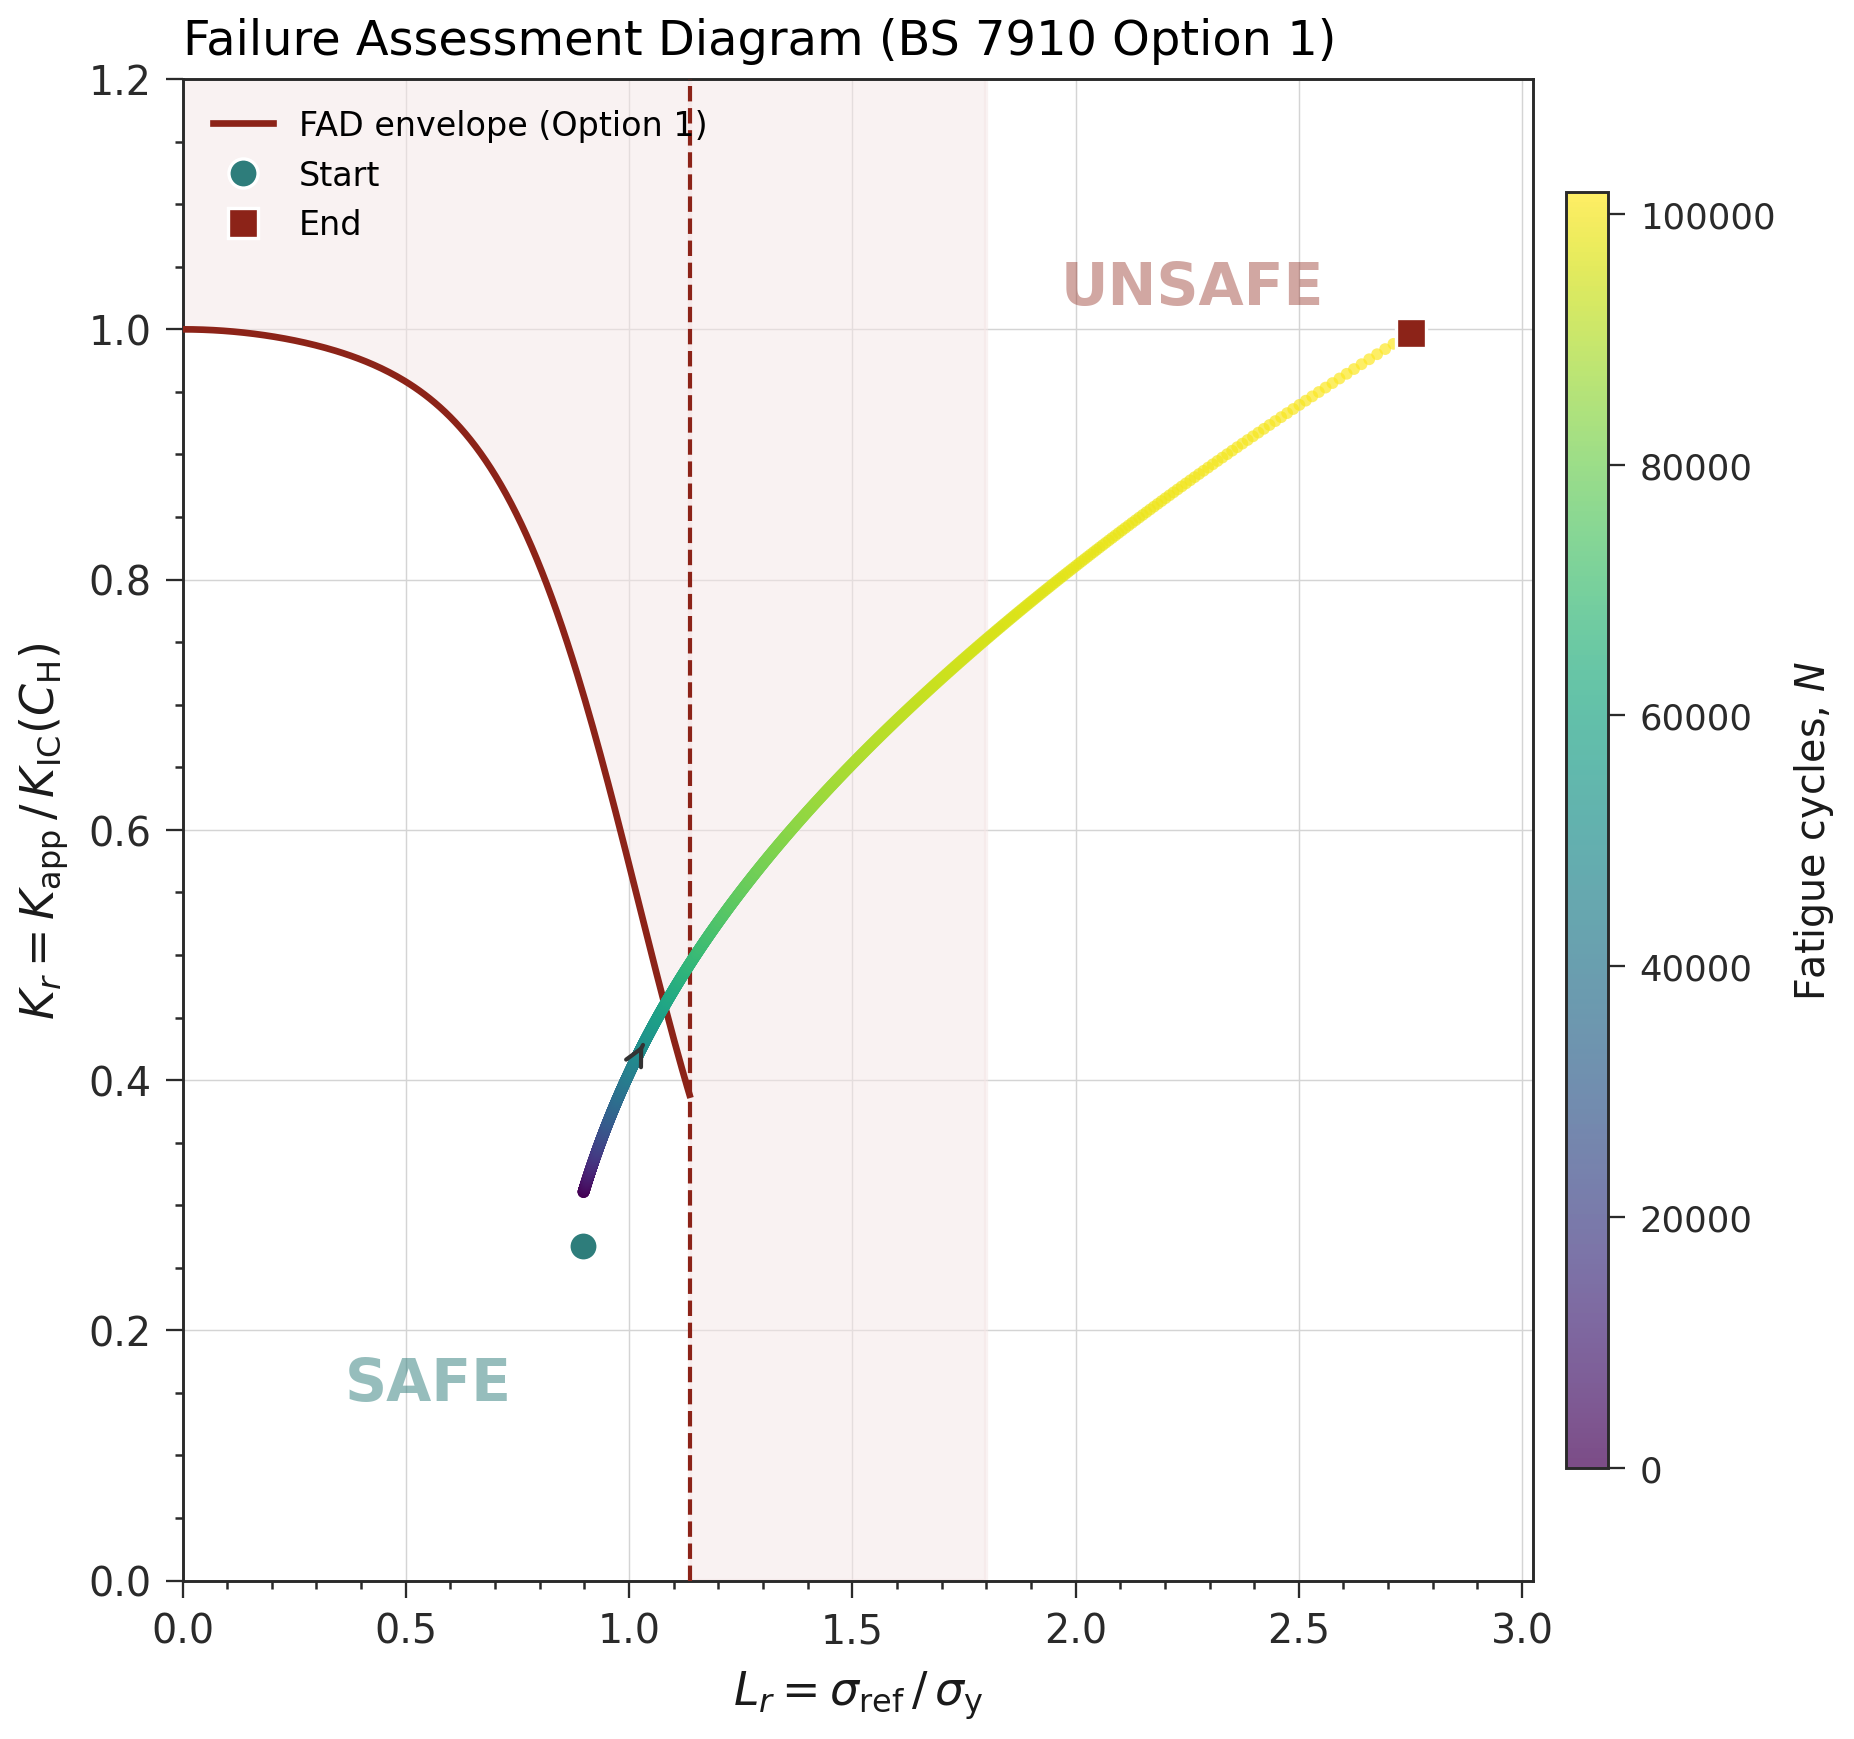
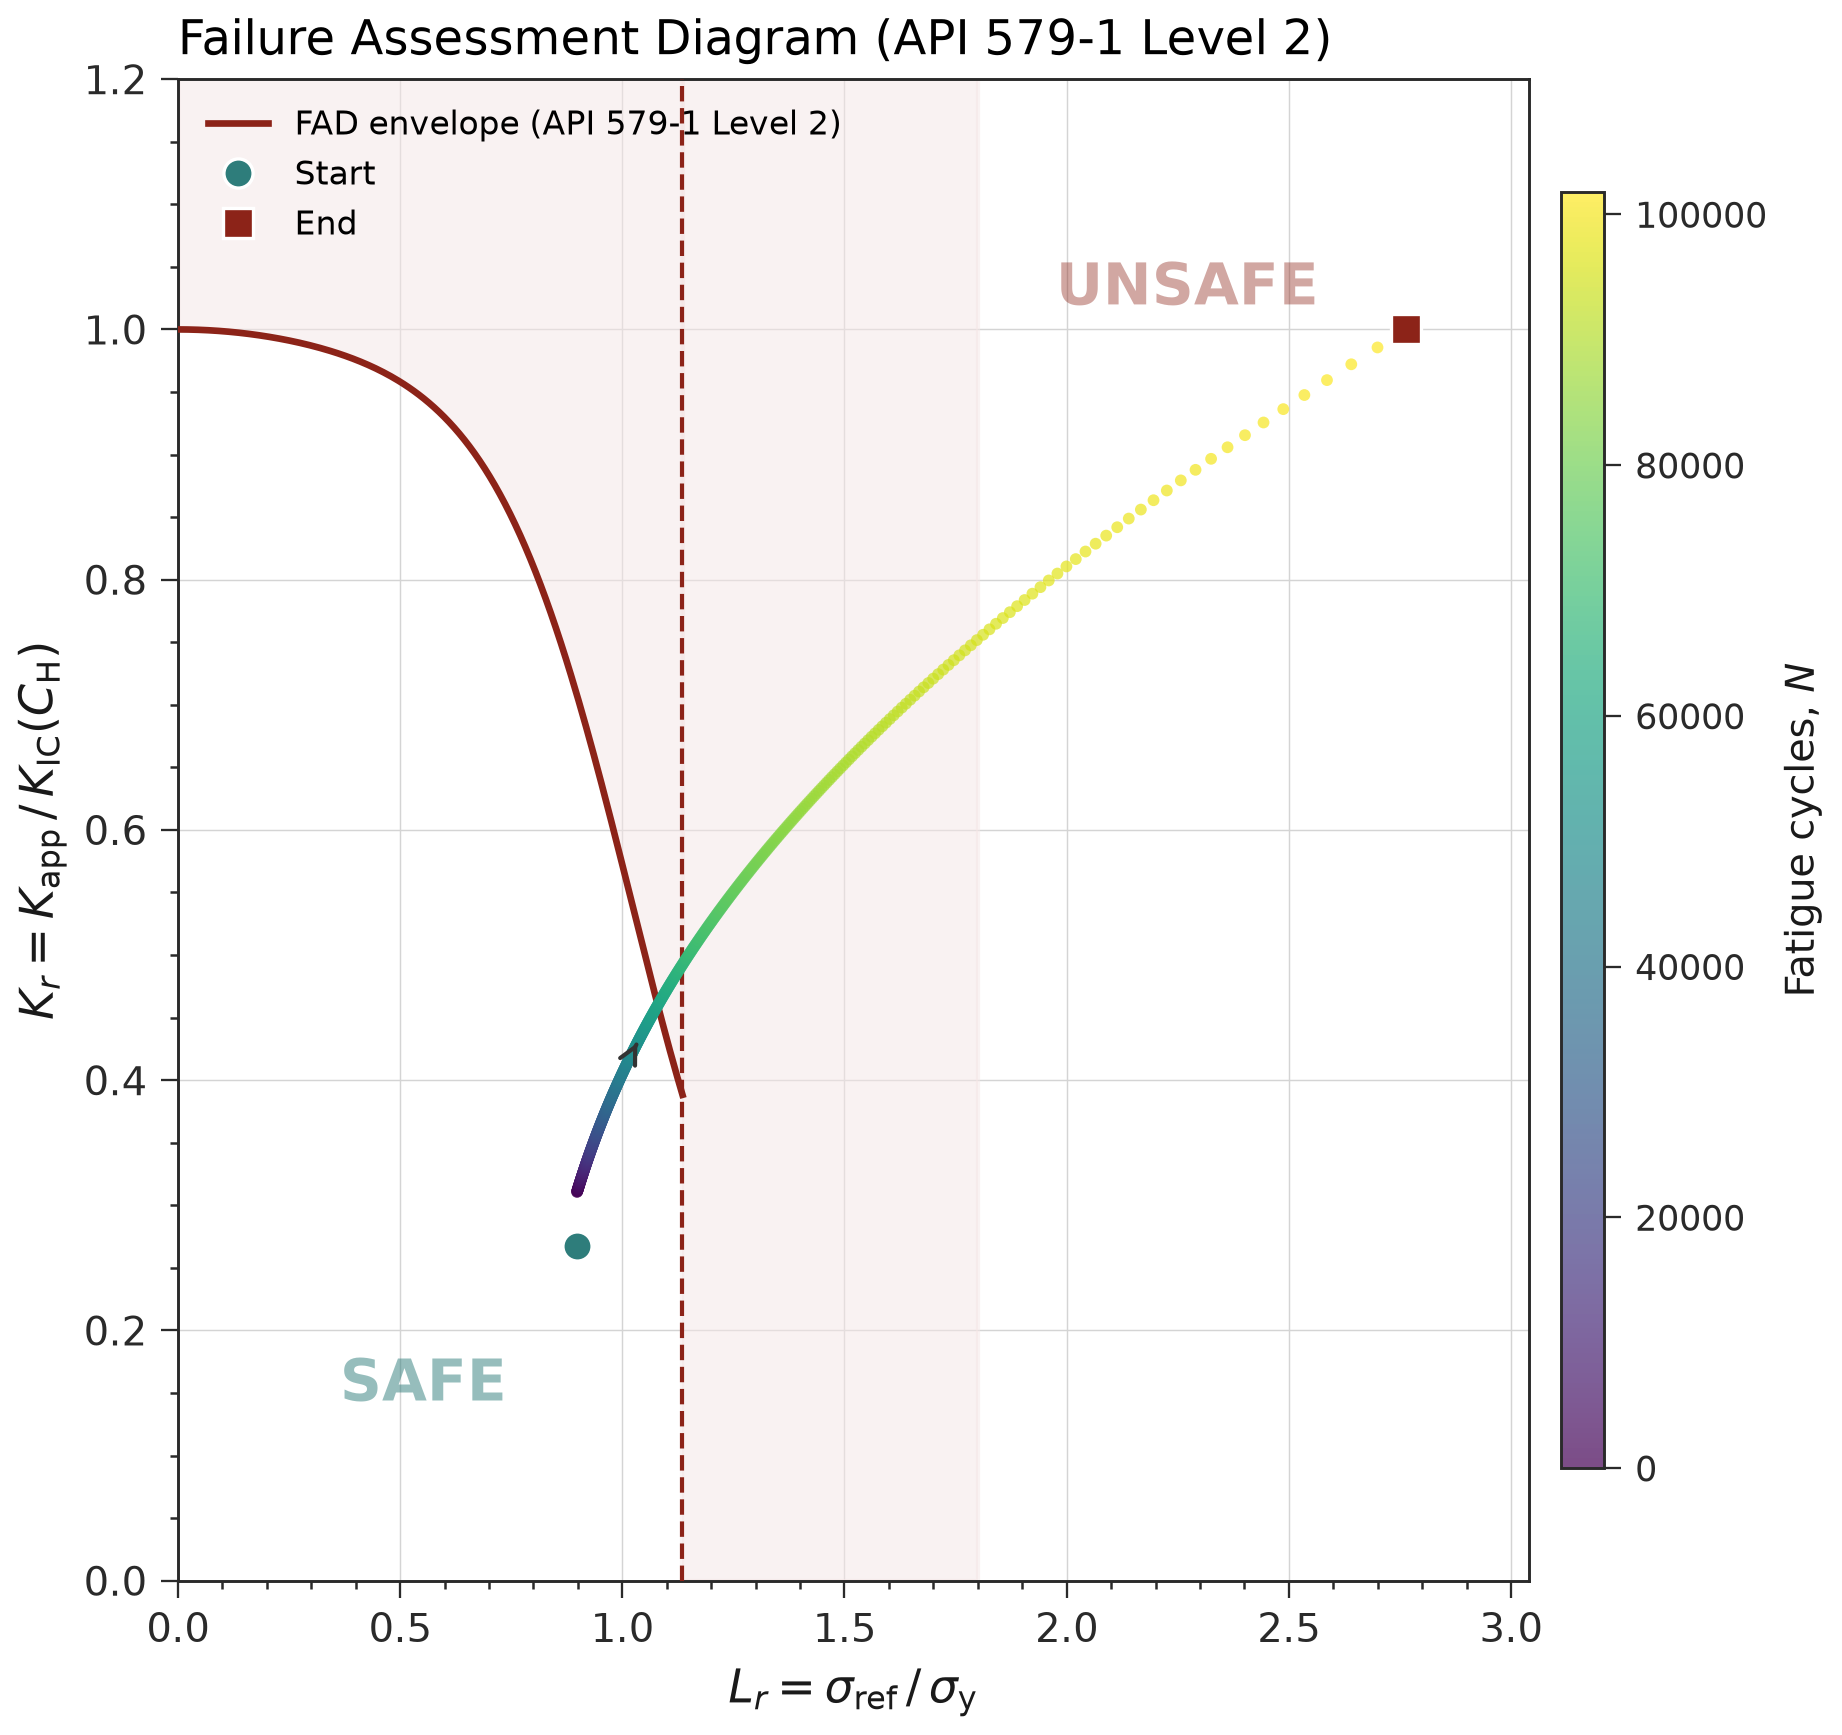
fix(figures): label the FAD curve as API 579-1 Level 2
The formula is the API 579-1 Level 2 curve, not BS 7910 Option 1. Values are unchanged: Kr(Lr = 1) = 0.5723. The cite matches the Week 9 and Week 10 packages.

diff --git a/src/visualization.py b/src/visualization.py
@@ -8,7 +8,7 @@ Outputs:
     3. Sensitivity tornado (Spearman)
     4. Surrogate parity + feature importance
     5. Iso-risk contour: remaining life vs (p_H2, pit_depth) with 10yr boundary
-    6. Failure Assessment Diagram (FAD), BS 7910 Option 1 curve
+    6. Failure Assessment Diagram (FAD), API 579-1 Level 2 curve
     7. Animated GIF with color-mapped wall concentration
 """
 
@@ -386,8 +386,13 @@ def plot_iso_risk_contour(lhs_params, lhs_lives, param_names,
 
 
 # ============================================================
-# 6. FAILURE ASSESSMENT DIAGRAM (FAD), BS 7910 Option 1 curve
+# 6. FAILURE ASSESSMENT DIAGRAM (FAD), API 579-1 Level 2 curve
 # ============================================================
+def fad_curve(Lr):
+    """API 579-1/ASME FFS-1 Level 2 FAD, as quoted in Bourga et al. 2016, PVP2016-63876."""
+    return (1.0 - 0.14 * Lr**2) * (0.3 + 0.7 * np.exp(-0.65 * Lr**6))
+
+
 def plot_fad(life_result, geom, mat, he, p_max_MPa,
              save_path="assets/fad.png"):
     """
@@ -397,7 +402,7 @@ def plot_fad(life_result, geom, mat, he, p_max_MPa,
         K_r = K_applied / K_IC(C_H)    (fracture axis)
         L_r = sigma_ref / sigma_yield   (collapse axis)
 
-    FAD envelope (Option 1, BS 7910 Level 2A):
+    FAD envelope (API 579-1 Level 2, see fad_curve):
         K_r = f(L_r) = (1 - 0.14 * L_r^2) * [0.3 + 0.7 * exp(-0.65 * L_r^6)]
         valid for 0 <= L_r <= L_r_max where L_r_max = (SMYS + SMTS) / (2 * SMYS)
 
@@ -409,17 +414,17 @@ def plot_fad(life_result, geom, mat, he, p_max_MPa,
 
     fig, ax = plt.subplots(figsize=(7, 6.5))
 
-    # FAD envelope (Option 1)
+    # FAD envelope (API 579-1 Level 2)
     L_r_max = (mat.SMYS_MPa + mat.SMTS_MPa) / (2.0 * mat.SMYS_MPa)
     L_r_cut = min(L_r_max, 1.6)
 
     Lr_env = np.linspace(0, L_r_cut, 200)
-    Kr_env = (1.0 - 0.14 * Lr_env**2) * (0.3 + 0.7 * np.exp(-0.65 * Lr_env**6))
+    Kr_env = fad_curve(Lr_env)
 
     # Fill unsafe region
     ax.fill_between(Lr_env, Kr_env, 1.5, color="#f5e6e6", alpha=0.5, zorder=1)
     ax.fill_betweenx([0, 1.5], L_r_cut, 1.8, color="#f5e6e6", alpha=0.5, zorder=1)
-    ax.plot(Lr_env, Kr_env, color=_DRED, lw=1.6, zorder=4, label="FAD envelope (Option 1)")
+    ax.plot(Lr_env, Kr_env, color=_DRED, lw=1.6, zorder=4, label="FAD envelope (API 579-1 Level 2)")
     ax.axvline(L_r_cut, color=_DRED, lw=1.0, ls="--", zorder=4)
 
     # Assessment trajectory from crack history
@@ -486,7 +491,7 @@ def plot_fad(life_result, geom, mat, he, p_max_MPa,
 
     ax.set_xlabel(r"$L_r = \sigma_{\mathrm{ref}} \,/\, \sigma_{\mathrm{y}}$")
     ax.set_ylabel(r"$K_r = K_{\mathrm{app}} \,/\, K_{\mathrm{IC}}(C_{\mathrm{H}})$")
-    ax.set_title("Failure Assessment Diagram (BS 7910 Option 1)", loc="left")
+    ax.set_title("Failure Assessment Diagram (API 579-1 Level 2)", loc="left")
     ax.legend(fontsize=8, loc="upper left")
     ax.set_xlim(0, x_max); ax.set_ylim(0, y_max)
     ax.minorticks_on()

diff --git a/tests/test_suite.py b/tests/test_suite.py
@@ -1,6 +1,6 @@
 """
 INTEGRITY CODE SERIES -- Week 7
-Comprehensive Test Suite: 150+ tests
+Comprehensive Test Suite: 191 tests
 
 Categories:
     A. Configuration and parameter validation (18)
@@ -1295,6 +1295,16 @@ class TestSingleMAOP:
         """2 * 358 * 0.00635 * 0.50 * 0.54 / 0.508 = 2.4165 MPa."""
         m = maop_under_b3112(cfg["geom"], cfg["mat"], cfg["ops"])
         assert abs(m - 2.4165) < 1e-3
+
+
+# ============================================================
+# FAD CURVE
+# ============================================================
+class TestFADCurve:
+    def test_level_2_curve_at_lr_1(self):
+        """(1 - 0.14) * (0.3 + 0.7 * exp(-0.65)) = 0.86 * 0.66543 = 0.5723."""
+        from visualization import fad_curve
+        assert abs(fad_curve(1.0) - 0.5723) < 1e-3
 
 
 # ============================================================
